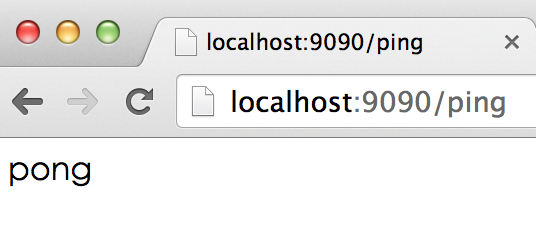
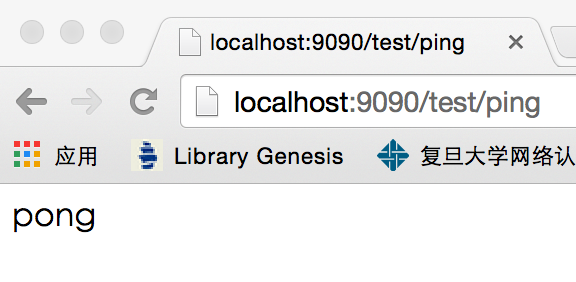
mount videos

diff --git a/README.md b/README.md
@@ -136,7 +136,7 @@ If you receive "Is a directory", then it's success.
 If not, please go back and check everything again, carefully.
 
 ## Test
-Run the server by `serve.sh`, open your browser, and go to http://localhost:9090/ping . If you see "pong", everything is done!
+Run the server by `serve.sh`, open your browser, and go to http://localhost:9090/test/ping . If you see "pong", everything is done!
 
 ```
 ./serve.sh
